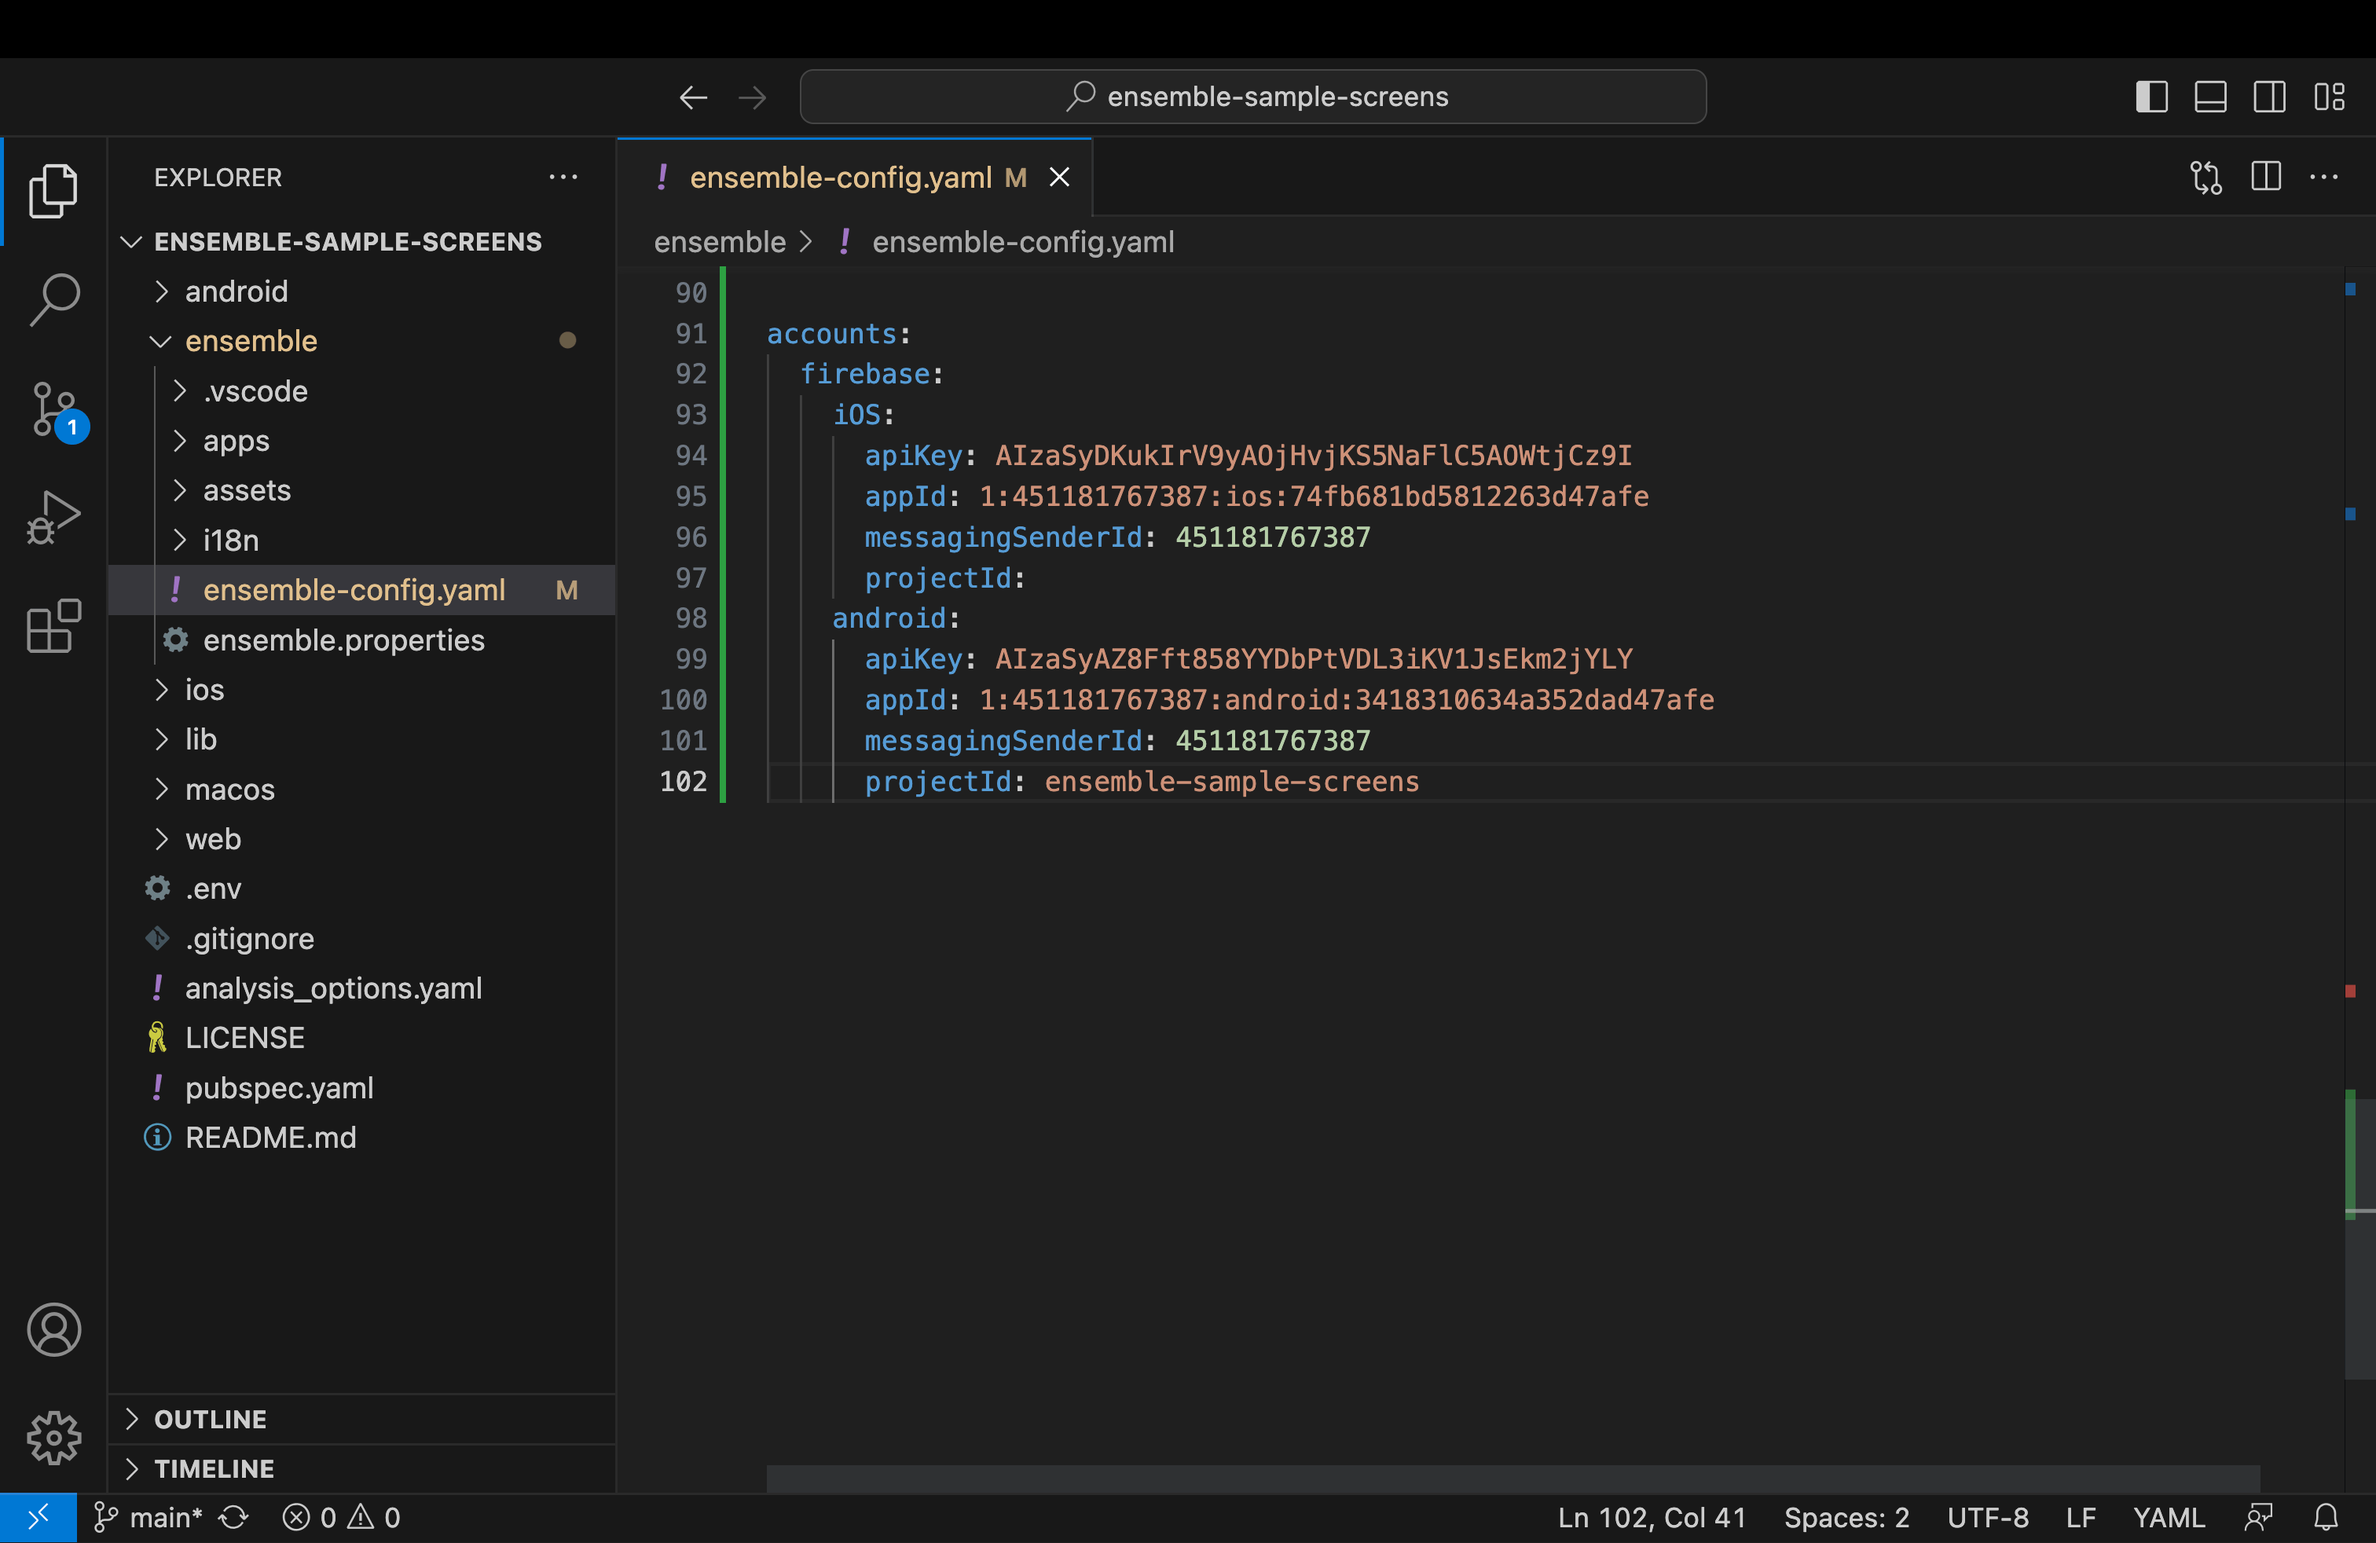
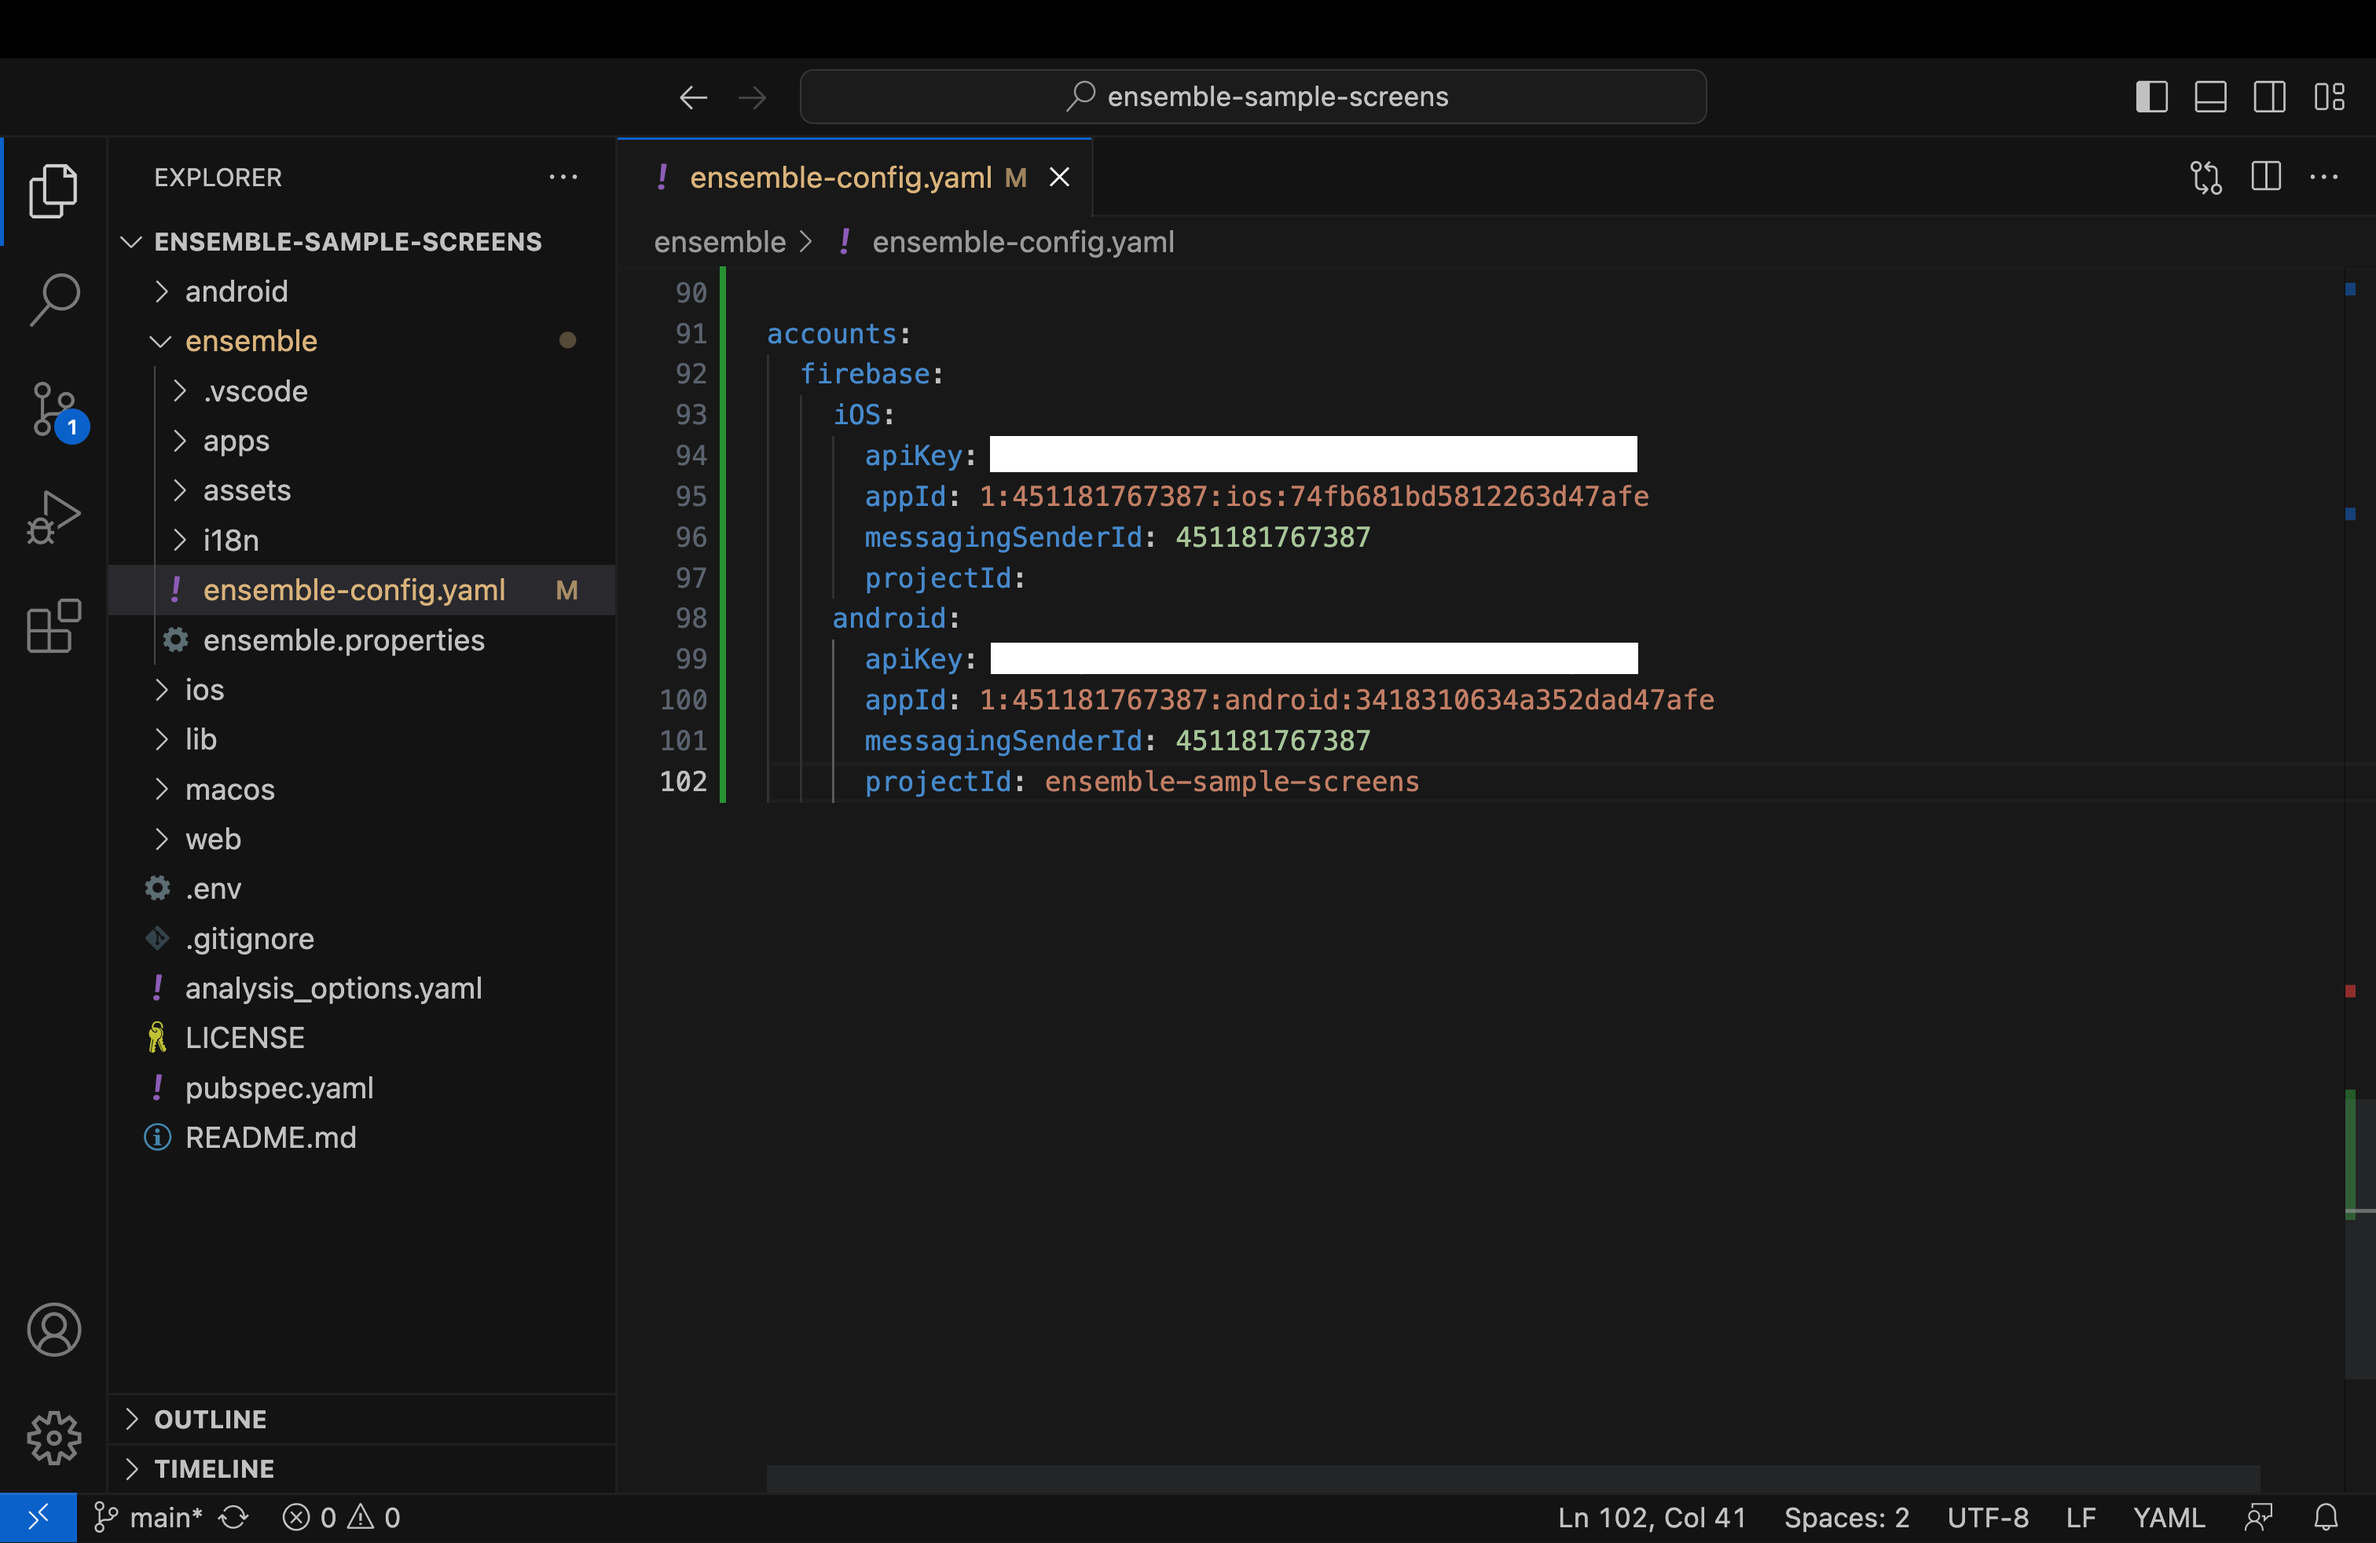
Replaced Firebase Images

Changed region(s): [[0.4041, 0.4038, 0.7149, 0.4348], [0.4041, 0.2795, 0.7149, 0.3106]]

diff --git a/build/authentication/firebase.md b/build/authentication/firebase.md
@@ -72,8 +72,11 @@ In the same file, `ensemble-config.yaml` , add Firebase account details in the f
 				projectId: # In google-services.json, take value of project_info.project_id
 ```
 
-
 To get these details, use the `GoogleService-Info.plist` and  `google-services.json` you downloaded during step 1.
+
+Here's an example of the outcome.
+
+<img src="/images/firebase-account-details.png" alt="firebase account details" style="max-width: 900px;">
 
 
 #### Add sign-in providers to Ensemble app
@@ -88,6 +91,11 @@ In the same file, `ensemble-config.yaml` , under `services` add the following.
             iOSClientId: # In GoogleService-Info.plist, take the value of CLIENT_ID
             androidClientId: # In google-services.json, take value of client.oauth_client.client_id
 ```
+
+Here's an example of the outcome.
+
+
+<img src="/images/firebase-provider-details.png" alt="firebase provider details" style="max-width: 900px;">
 
 
 ---
